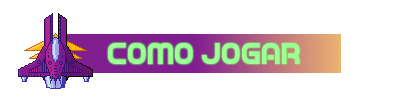
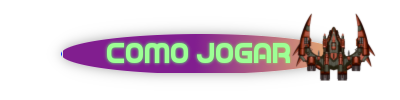
Adição de nova tela e atualização nas imagens da tela inicial.
Foi adicionada uma terceira tela, a tela de ajuda. Assim que houver certeza de todos os controles utilizados no jogo, atualizamos essa tela.
As imagens dos botões foram atualizadas.

Changed region(s): [[0.03, 0.12, 0.96, 0.9]]

diff --git a/main.py b/main.py
@@ -45,6 +45,11 @@ B_INICIAR = pygame.image.load(os.path.join("assets", "iniciar.png"))
 B_AJUDA = pygame.image.load(os.path.join("assets", "ajuda.png"))
 B_SAIR = pygame.image.load(os.path.join("assets", "sair.png"))
 
+## Imagens da tela de ajuda
+BG_AJUDA = pygame.transform.scale(pygame.image.load(os.path.join("assets", "BG_ajuda.png")).convert(), (LARGURA, ALTURA + 40))
+B_VOLTAR = pygame.image.load(os.path.join("assets", "voltar.png"))
+#B_AJUDA = pygame.image.load(os.path.join("assets", "ajuda.png"))
+
 
 pygame.display.set_caption("__Invasores do Espaço__")
 pygame.display.set_icon(ICONE)
@@ -312,7 +317,7 @@ def main():
 
 def menu_principal():
     B_INICIAR_largura = B_INICIAR.get_width()
-    B_INICIAR_altura = B_INICIAR.get_height()
+    #B_INICIAR_altura = B_INICIAR.get_height()
     largura_geral = LARGURA//2 - B_INICIAR_largura//2
 
     altura_iniciar=ALTURA
@@ -325,11 +330,12 @@ def menu_principal():
 
         ## Animação na TELA inicial
         if altura_iniciar > ALTURA//3:
-            altura_iniciar-=3
+            altura_iniciar-=4
         if altura_ajuda > ALTURA//2:
-            altura_ajuda-=2
+            altura_ajuda-=3
         if altura_sair > ALTURA//1.5:
-            altura_sair-=1
+            altura_sair-=2
+
         TELA.blit(B_INICIAR, (largura_geral, altura_iniciar))
         TELA.blit(B_AJUDA, (largura_geral, altura_ajuda))
         TELA.blit(B_SAIR, (largura_geral, altura_sair))
@@ -345,11 +351,40 @@ def menu_principal():
                     #print("Botão iniciar apertado")
                     main()
                 if x > 123 and y > 313 and x < 414 and y < 349:
-                    print("Botão ajuda apertado")
+                    #print("Botão ajuda apertado")
+                    ajuda()
                 if x > 123 and y > 405 and x < 414 and y < 436:
                     #print("Botão sair apertado")
                     pygame.quit()
                     exit()
+
+        pygame.display.flip()
+
+def ajuda():
+    B_VOLTAR_largura = B_VOLTAR.get_width()
+    #B_VOLTAR_altura = B_VOLTAR.get_height()
+    largura = LARGURA//2 - B_VOLTAR_largura//2
+    altura_voltar = ALTURA
+    
+    while True:
+        RELOGIO.tick(FPS)
+        TELA.blit(BG_AJUDA, (0, 0))
+
+        if altura_voltar > ALTURA//1.15:
+            altura_voltar-=4
+
+        TELA.blit(B_VOLTAR, (largura, altura_voltar))
+        
+        for event in pygame.event.get():
+            if event.type == pygame.QUIT:
+                pygame.quit()
+                exit()
+            if event.type == pygame.MOUSEBUTTONDOWN: ## Monitora clique do mouse
+                x = pygame.mouse.get_pos()[0]
+                y = pygame.mouse.get_pos()[1]
+                
+                if x > 123 and y > 515 and x < 414 and y < 552:
+                    menu_principal()
 
         pygame.display.flip()
 
